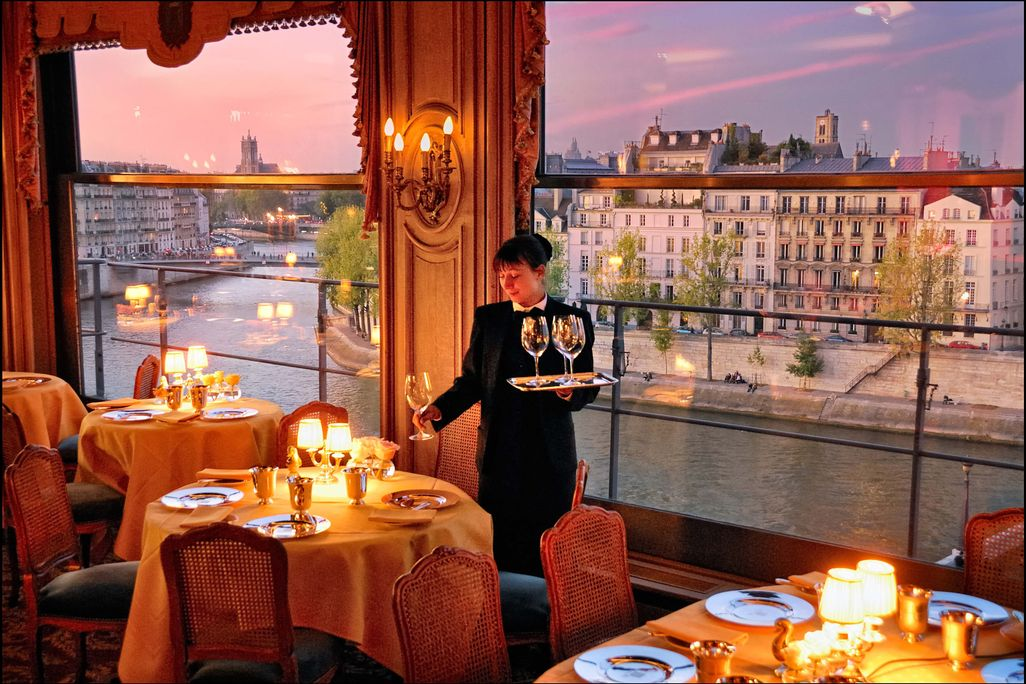
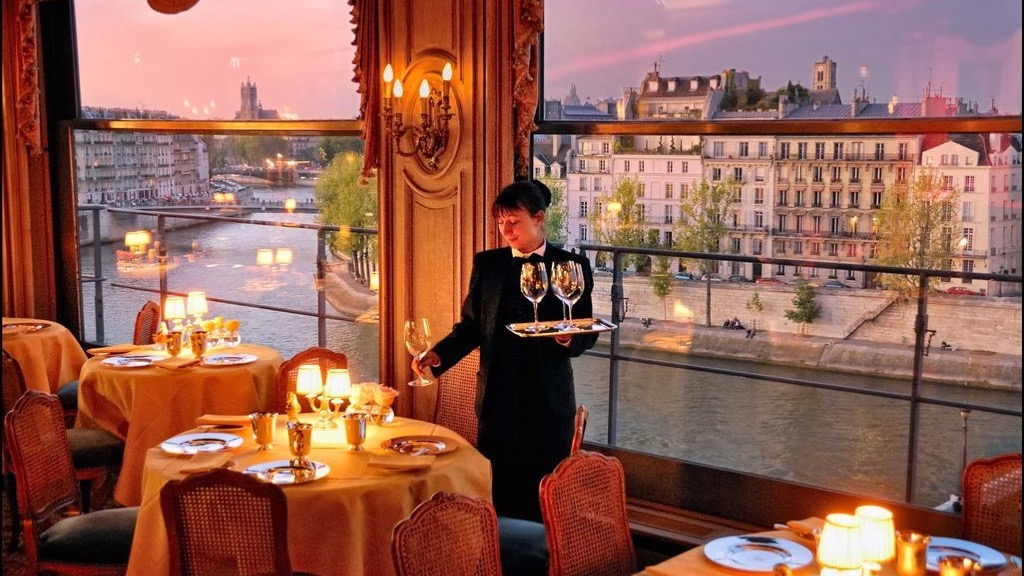
Remove redundant captions from the README and update the restaurant image.

diff --git a/README.md b/README.md
@@ -11,10 +11,6 @@ Named for the thread that guided Theseus through the labyrinth: Ariadne is the t
     <td width="50%"><img src="media/hero-maze.jpg" alt="A concrete maze viewed from above" width="100%"></td>
     <td width="50%"><img src="media/hero-restaurant.jpg" alt="A server pouring wine at a riverside restaurant table" width="100%"></td>
   </tr>
-  <tr>
-    <td align="center"><sub>Every requirement starts as a labyrinth.</sub></td>
-    <td align="center"><sub>Ariadne gets it to the right table.</sub></td>
-  </tr>
 </table>
 
 ---
